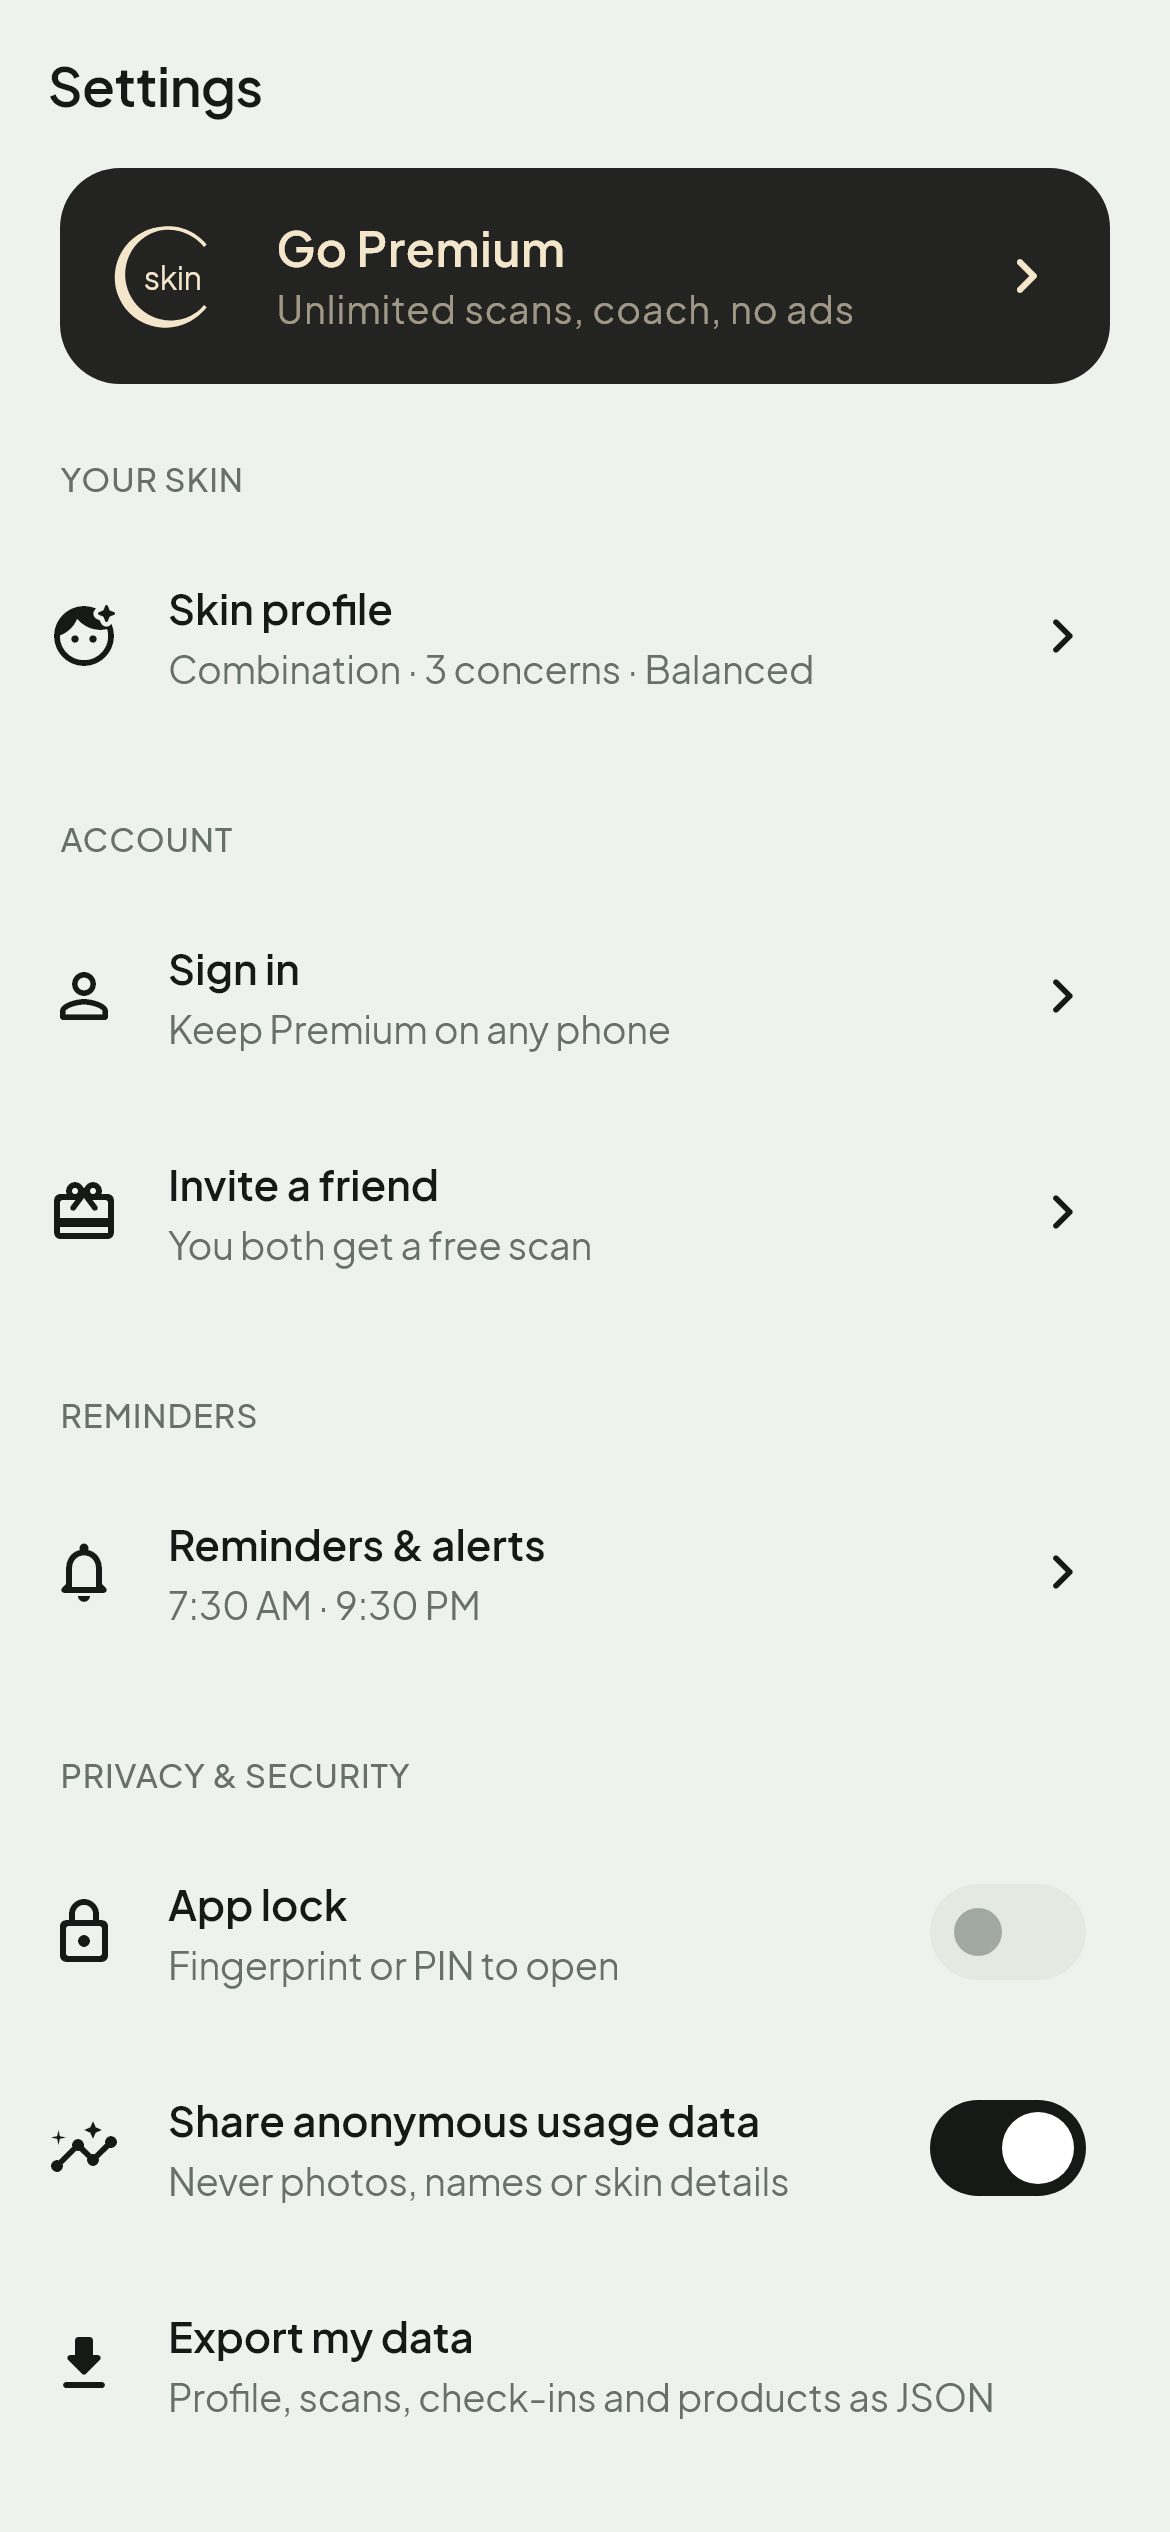
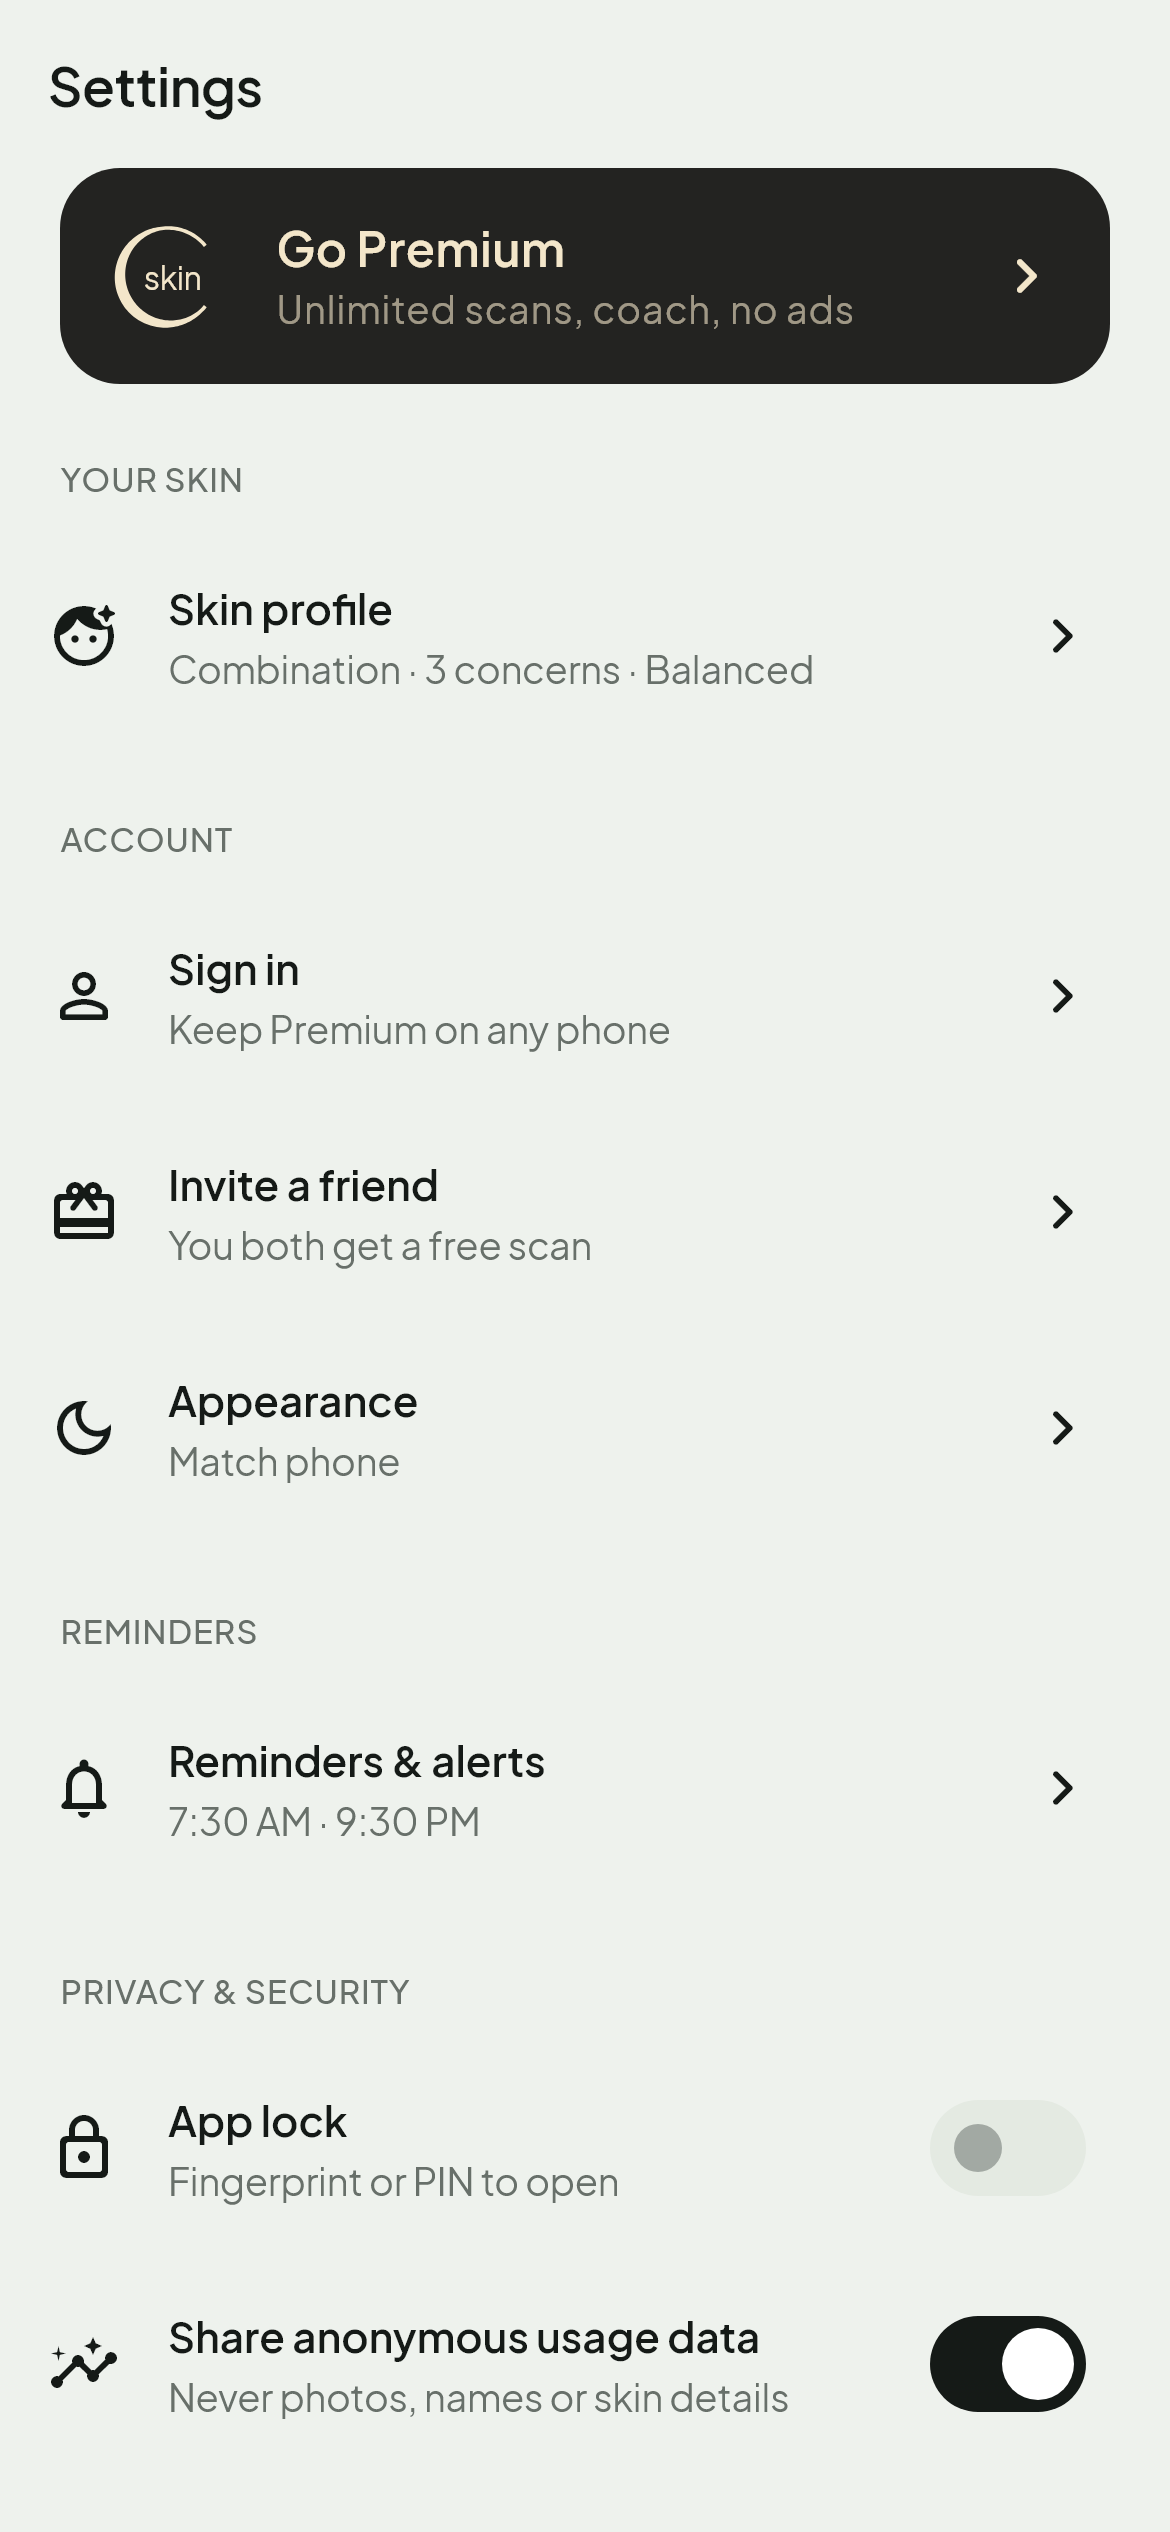
feat: appearance setting (match phone, light, dark)
Follows the phone by default; a saved choice is read before the first
frame so the app never flashes the wrong theme.

diff --git a/lib/features/settings/settings_screen.dart b/lib/features/settings/settings_screen.dart
@@ -36,6 +36,65 @@ String _planLine(SubscriptionInfo? sub) {
   return sub.willRenew ? 'Renews $date' : 'Ends $date. Tap to renew';
 }
 
+String _appearanceLabel(ThemeMode m) => switch (m) {
+  ThemeMode.system => 'Match phone',
+  ThemeMode.light => 'Light',
+  ThemeMode.dark => 'Dark',
+};
+
+/// Match phone (the default), light or dark. The app switches as soon as
+/// one is picked.
+void _pickAppearance(BuildContext context) {
+  showModalBottomSheet<void>(
+    context: context,
+    useSafeArea: true,
+    builder: (_) => Consumer(
+      builder: (context, ref, _) => RadioGroup<ThemeMode>(
+        groupValue: ref.watch(themeModeProvider),
+        onChanged: (m) {
+          if (m == null) return;
+          ref.read(themeModeProvider.notifier).set(m);
+          Navigator.pop(context);
+        },
+        child: Padding(
+          padding: const EdgeInsets.symmetric(vertical: Space.md),
+          child: Column(
+            mainAxisSize: MainAxisSize.min,
+            crossAxisAlignment: CrossAxisAlignment.start,
+            children: [
+              Padding(
+                padding: const EdgeInsets.fromLTRB(
+                  Space.gutter,
+                  0,
+                  Space.gutter,
+                  Space.xs,
+                ),
+                child: Text('Appearance', style: context.text.titleLarge),
+              ),
+              const RadioListTile<ThemeMode>(
+                value: ThemeMode.system,
+                controlAffinity: ListTileControlAffinity.trailing,
+                title: Text('Match phone'),
+                subtitle: Text('Light or dark, as your phone is set'),
+              ),
+              const RadioListTile<ThemeMode>(
+                value: ThemeMode.light,
+                controlAffinity: ListTileControlAffinity.trailing,
+                title: Text('Light'),
+              ),
+              const RadioListTile<ThemeMode>(
+                value: ThemeMode.dark,
+                controlAffinity: ListTileControlAffinity.trailing,
+                title: Text('Dark'),
+              ),
+            ],
+          ),
+        ),
+      ),
+    ),
+  );
+}
+
 class SettingsScreen extends ConsumerWidget {
   const SettingsScreen({super.key});
 
@@ -180,6 +239,13 @@ class SettingsScreen extends ConsumerWidget {
             subtitle: const Text('You both get a free scan'),
             trailing: const Icon(Icons.chevron_right_rounded),
             onTap: () => context.push('/invite'),
+          ),
+          ListTile(
+            leading: const Icon(Icons.dark_mode_outlined),
+            title: const Text('Appearance'),
+            subtitle: Text(_appearanceLabel(ref.watch(themeModeProvider))),
+            trailing: const Icon(Icons.chevron_right_rounded),
+            onTap: () => _pickAppearance(context),
           ),
           section('Reminders'),
           ListTile(

diff --git a/lib/core/providers.dart b/lib/core/providers.dart
@@ -1,6 +1,7 @@
 import 'dart:async';
 
 import 'package:clock/clock.dart';
+import 'package:flutter/material.dart' show ThemeMode;
 import 'package:flutter_riverpod/flutter_riverpod.dart';
 import 'package:uuid/uuid.dart';
 
@@ -167,6 +168,30 @@ class PremiumNotifier extends Notifier<bool> {
 
 final premiumProvider = NotifierProvider<PremiumNotifier, bool>(
   PremiumNotifier.new,
+);
+
+/// The saved appearance, read in main() before the first frame so the app
+/// never flashes the wrong theme.
+final initialThemeModeProvider = Provider<ThemeMode>((_) => ThemeMode.system);
+
+/// Light, dark, or (the default) whatever the phone is set to.
+class ThemeModeNotifier extends Notifier<ThemeMode> {
+  @override
+  ThemeMode build() => ref.read(initialThemeModeProvider);
+
+  Future<void> set(ThemeMode mode) async {
+    state = mode;
+    await ref.read(kvProvider).set(KvKeys.appearance, mode.name);
+  }
+
+  static ThemeMode parse(String? saved) => ThemeMode.values.firstWhere(
+    (m) => m.name == saved,
+    orElse: () => ThemeMode.system,
+  );
+}
+
+final themeModeProvider = NotifierProvider<ThemeModeNotifier, ThemeMode>(
+  ThemeModeNotifier.new,
 );
 
 /// Free-tier limits. The server enforces AI limits independently (and is

diff --git a/test/core/theme_mode_test.dart b/test/core/theme_mode_test.dart
@@ -1,0 +1,24 @@
+import 'package:clearskin_ai/core/providers.dart';
+import 'package:flutter/material.dart';
+import 'package:flutter_riverpod/flutter_riverpod.dart';
+import 'package:flutter_test/flutter_test.dart';
+
+void main() {
+  test('nothing saved follows the phone', () {
+    expect(ThemeModeNotifier.parse(null), ThemeMode.system);
+    expect(ThemeModeNotifier.parse('nonsense'), ThemeMode.system);
+  });
+
+  test('a saved choice is restored', () {
+    expect(ThemeModeNotifier.parse('dark'), ThemeMode.dark);
+    expect(ThemeModeNotifier.parse('light'), ThemeMode.light);
+  });
+
+  test('the app starts in the saved mode', () {
+    final c = ProviderContainer(
+      overrides: [initialThemeModeProvider.overrideWithValue(ThemeMode.dark)],
+    );
+    addTearDown(c.dispose);
+    expect(c.read(themeModeProvider), ThemeMode.dark);
+  });
+}

diff --git a/lib/main.dart b/lib/main.dart
@@ -76,6 +76,7 @@ Future<void> main() async {
   }
 
   final startLocked = await kv.get(KvKeys.appLock) == '1';
+  final themeMode = ThemeModeNotifier.parse(await kv.get(KvKeys.appearance));
 
   runApp(
     ProviderScope(
@@ -84,6 +85,7 @@ Future<void> main() async {
         purchasesServiceProvider.overrideWithValue(purchases),
         notificationServiceProvider.overrideWithValue(notifications),
         telemetryProvider.overrideWithValue(telemetry),
+        initialThemeModeProvider.overrideWithValue(themeMode),
       ],
       child: ClearSkinApp(startLocked: startLocked),
     ),

diff --git a/lib/app.dart b/lib/app.dart
@@ -144,7 +144,7 @@ class _ClearSkinAppState extends ConsumerState<ClearSkinApp>
       debugShowCheckedModeBanner: false,
       theme: AppTheme.light(),
       darkTheme: AppTheme.dark(),
-      themeMode: ThemeMode.system,
+      themeMode: ref.watch(themeModeProvider),
       routerConfig: router,
       builder: (context, child) {
         // Respect user font scaling but cap it so layouts stay intact.

diff --git a/lib/data/repositories/repositories.dart b/lib/data/repositories/repositories.dart
@@ -68,6 +68,9 @@ abstract final class KvKeys {
   static const accountStatus = 'account_status_v1';
   static const streakCelebrated = 'streak_celebrated_day';
 
+  /// ThemeMode.name: 'system' (follow the phone), 'light' or 'dark'.
+  static const appearance = 'appearance';
+
   /// '1' once the person has shared their invite code.
   static const inviteShared = 'invite_shared';
 
